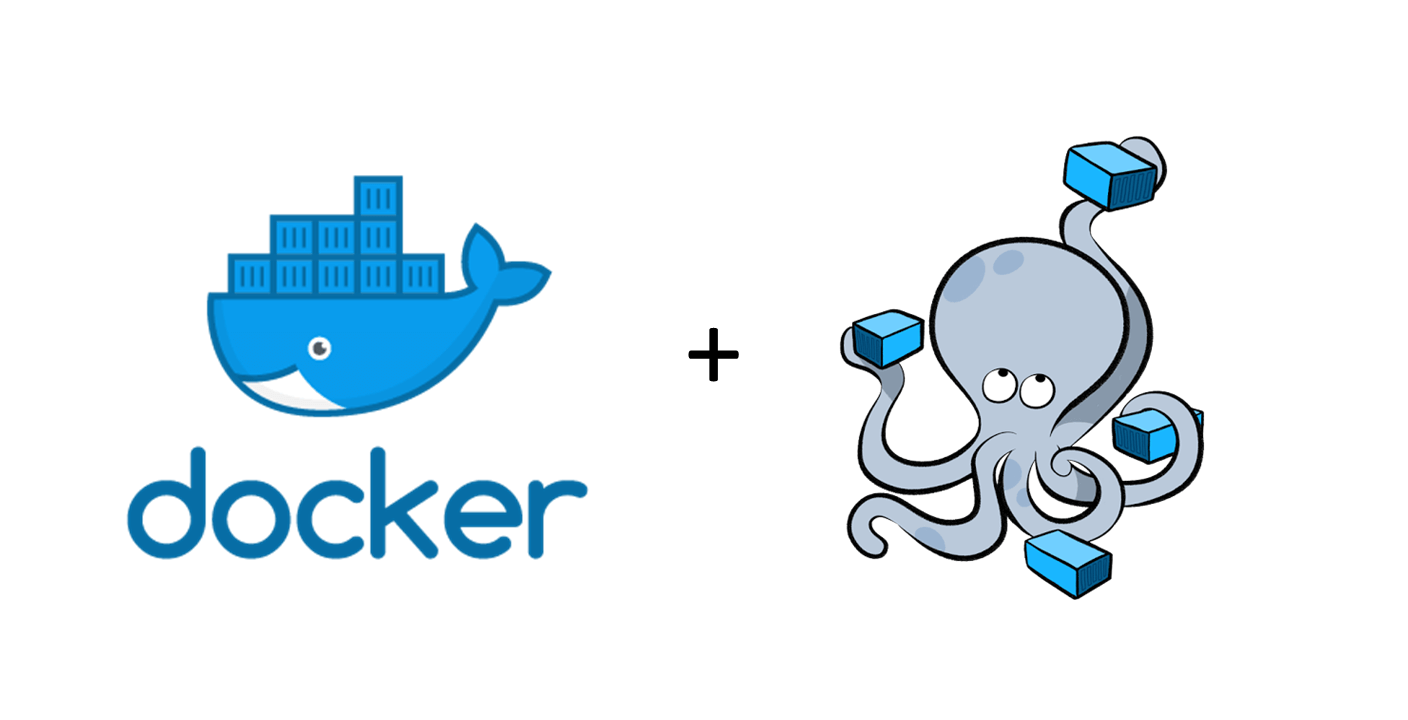
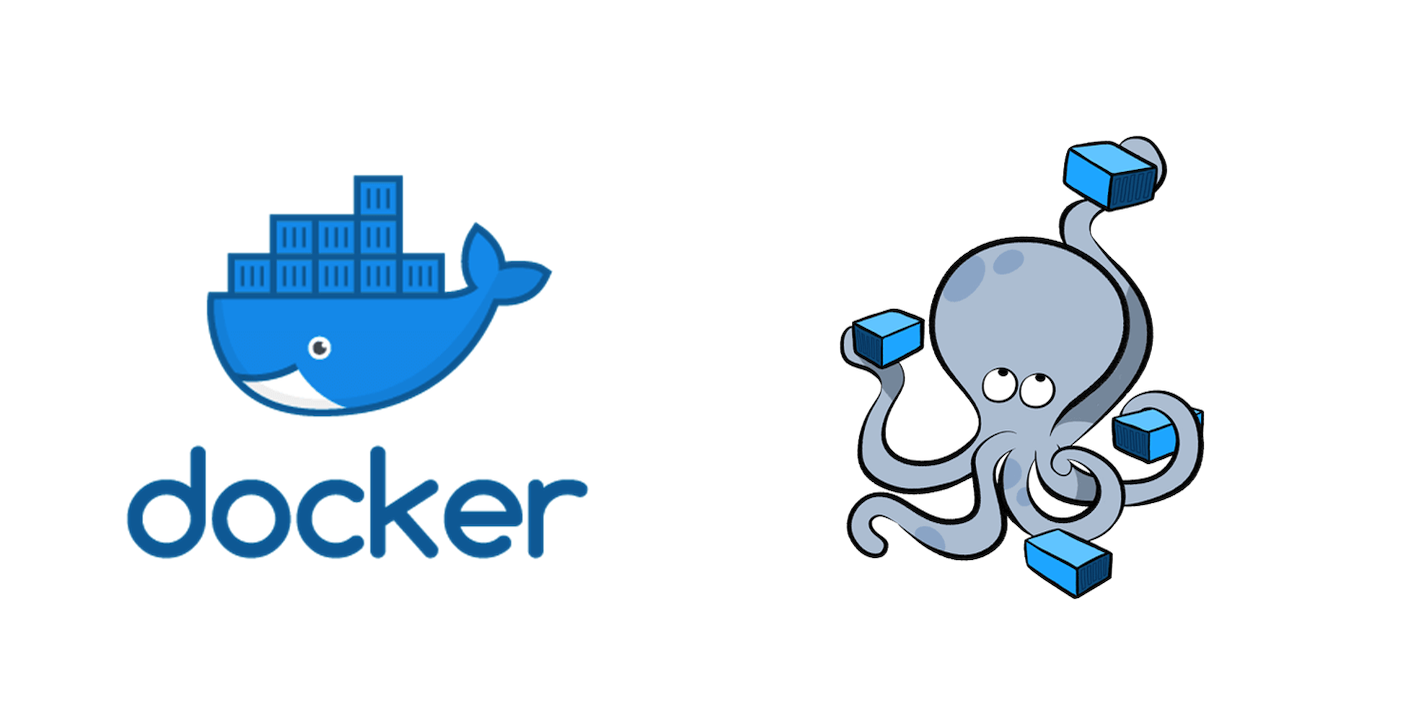
network/sysadmin ok

Changed region(s): [[0.4688, 0.459, 0.5312, 0.5202], [0.1875, 0.5508, 0.25, 0.5814]]

diff --git a/index.html b/index.html
@@ -240,7 +240,8 @@
 												<p>2 weeks</p>
 											</article>
 											<article class="work5">
-												<div class="image"><img src="images/png/docker-compose.png" alt="" /></div>
+												<!-- <div class="image"><img src="images/png/docker-compose.png" alt="" /></div> -->
+												<div class="image"><div class="click black-button"></div><img class="png-click" src="images/png/docker-compose.png" alt="" /><img class="gif-click" src="images/gifs/inception.gif" alt="" /></div>
 												<h3 class="major">Set up an infrastructure of different micro-services with Docker</h3>
 												<h4>Summary</h4>
 												<p>On a network of containers, deploy a range of services including Nginx server, Wordpress app, Mariadb database, FTP server, Redis cache, static site, and monitoring.</p>
